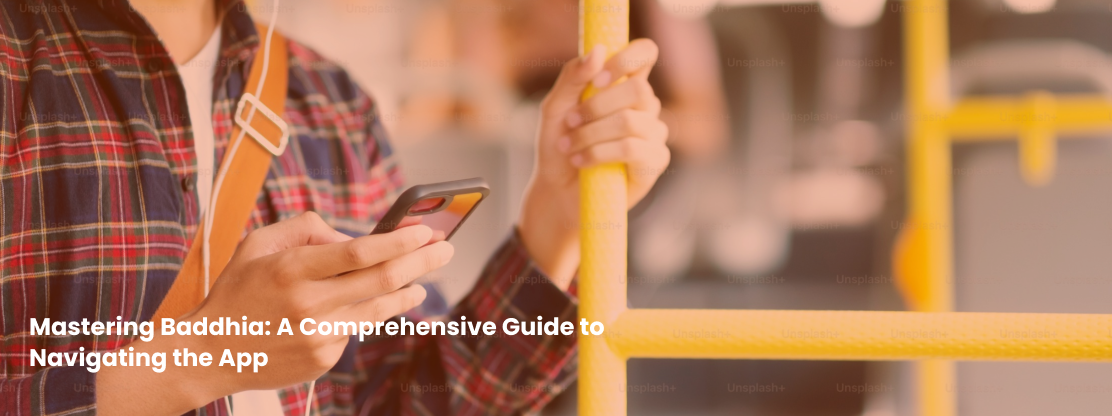
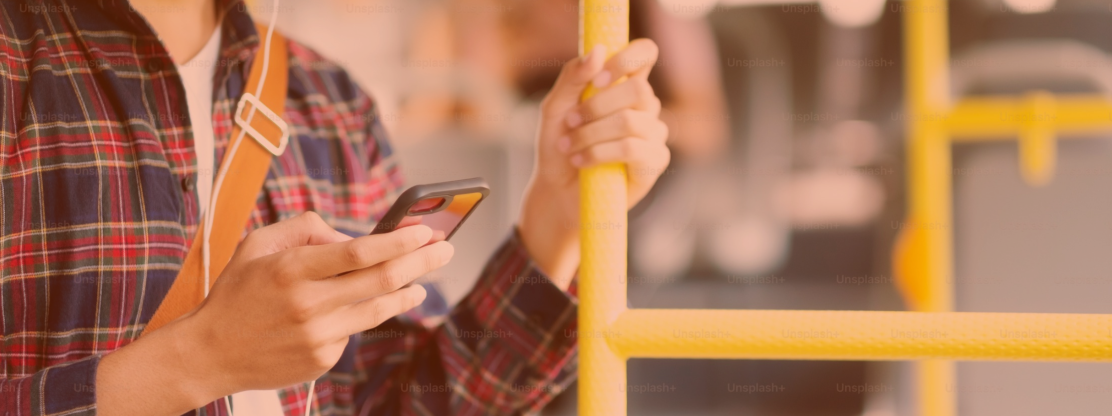
Latest update

Changed region(s): [[0.0306, 0.75, 0.5504, 0.8125], [0.0, 0.8438, 0.2446, 0.9062]]

diff --git a/src/components/BlogImg.jsx b/src/components/BlogImg.jsx
@@ -5,8 +5,11 @@ import blogimg from "/images/blog-header-img.png"
 function BlogImg() {
   return (
     <div>
-      <div className='w-full mb-28 px-8 md:px-16'>
-        <img className='w-full ' src={blogimg} alt="" />
+      <div className='w-full relative mb-28 px-8 md:px-16'>
+        <img className='w-full h-auto' src={blogimg} alt="" />
+        <div className='absolute left-10 md:left-20 bottom-5 inset-0 flex items-end justify-left text-left text-xs sm:left-10 md:text-xl text-white font-semibold lg:text-2xl'>
+        <p >Mastering Baddhia: A Comprehensive Guide to<br></br> Navigating the App</p>
+        </div>
       </div>
     </div>
   )
